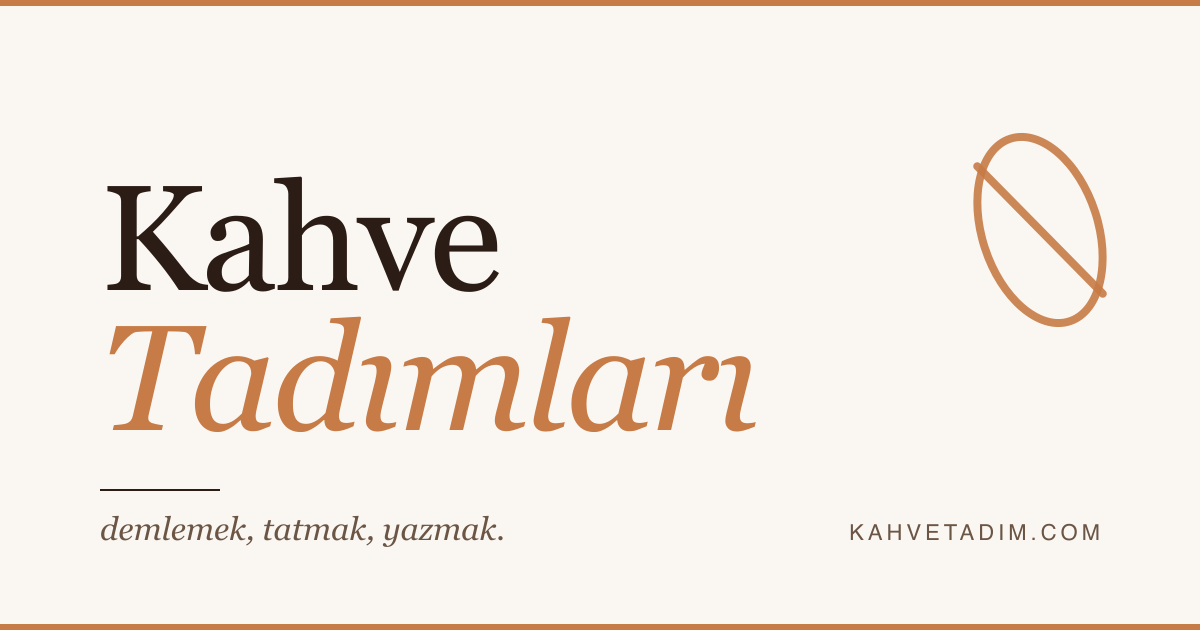
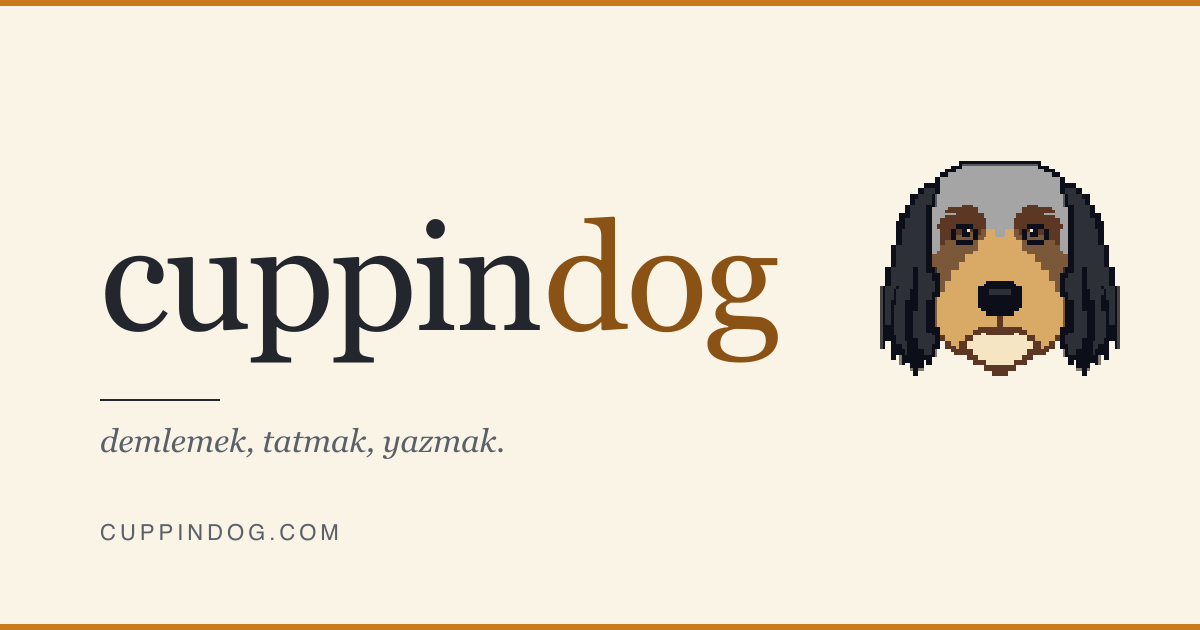
Marka: kahvetadim → cuppindog (şube)
- Çakıl pixel işareti: favicon 16/32, apple-touch-icon 180, başlıkta 36px
- Palet Çakıl'dan türedi: mürekkep soğuk antrasit #23262c, vurgu #c97b1e,
  bağlantı tonu #8a5214 (krem üzerinde 5.8:1), krem zemin #faf4e7
- Marka adı tek kaynaktan (i18n) değişti; altbilgi ve JSON-LD yayıncı adı
- og.png yeniden üretildi (işaret + cuppindog kelime markası)

diff --git a/src/styles/global.css b/src/styles/global.css
@@ -34,16 +34,18 @@
 }
 
 @theme {
-  --color-bg: #faf7f2;
-  --color-bg-soft: #f3ece1;
-  --color-ink: #2b1d16;
-  --color-ink-soft: #6b5545;
+  --color-bg: #faf4e7;
+  --color-bg-soft: #f2e7cf;
+  /* Mürekkep artık sıcak kahve değil, Çakıl'ın kulak kömürüne yakın soğuk
+     antrasit — marka işaretiyle aynı ailede (krem üzerinde 13.8:1). */
+  --color-ink: #23262c;
+  --color-ink-soft: #5a5f68;
   /* Ölçüm katmanının rengi: puan, çubuk, demleme ikonu. Dekoratif/büyük
-     kullanım için — krem üzerinde 3.09:1 (AA büyük metin). */
-  --color-accent: #c77b46;
-  /* Küçük metin ve bağlantılar için koyultulmuş ton — 4.51:1, AA normal metin. */
-  --color-accent-deep: #a56132;
-  --color-line: #e5dccc;
+     kullanım için — krem üzerinde 3.02:1 (AA büyük metin). */
+  --color-accent: #c97b1e;
+  /* Küçük metin ve bağlantılar için koyultulmuş ton — 5.81:1, AA normal metin. */
+  --color-accent-deep: #8a5214;
+  --color-line: #e4d8be;
 
   --font-serif: "Fraunces Variable", ui-serif, Georgia, serif;
   --font-sans: "Inter Variable", ui-sans-serif, system-ui, sans-serif;

diff --git a/src/i18n/ui.ts b/src/i18n/ui.ts
@@ -27,10 +27,10 @@ export const dateLocale: Record<Lang, string> = {
 export const ui = {
   tr: {
     'site.author': 'Sabri',
-    'site.brandLead': 'Kahve',
-    'site.brandAccent': 'Tadımları',
-    'site.name': 'Kahvetadim',
-    'site.title': 'Kahvetadim — Kişisel kahve tadım defteri',
+    'site.brandLead': 'cuppin',
+    'site.brandAccent': 'dog',
+    'site.name': 'Cuppindog',
+    'site.title': 'Cuppindog — Kişisel kahve tadım defteri',
     'site.description':
       'Tattığım kahvelerin menşeini, prosesini ve damakta bıraktığı izi tek tek yazdığım kişisel tadım defteri.',
 
@@ -101,8 +101,8 @@ export const ui = {
     'site.author': 'Sabri',
     'site.brandLead': 'Coffee',
     'site.brandAccent': 'Tastings',
-    'site.name': 'Kahvetadim',
-    'site.title': 'Kahvetadim — A personal coffee tasting journal',
+    'site.name': 'Cuppindog',
+    'site.title': 'Cuppindog — A personal coffee tasting journal',
     'site.description':
       'A personal tasting journal where I write up the origin, process and cup of every coffee I taste, one by one.',
 
